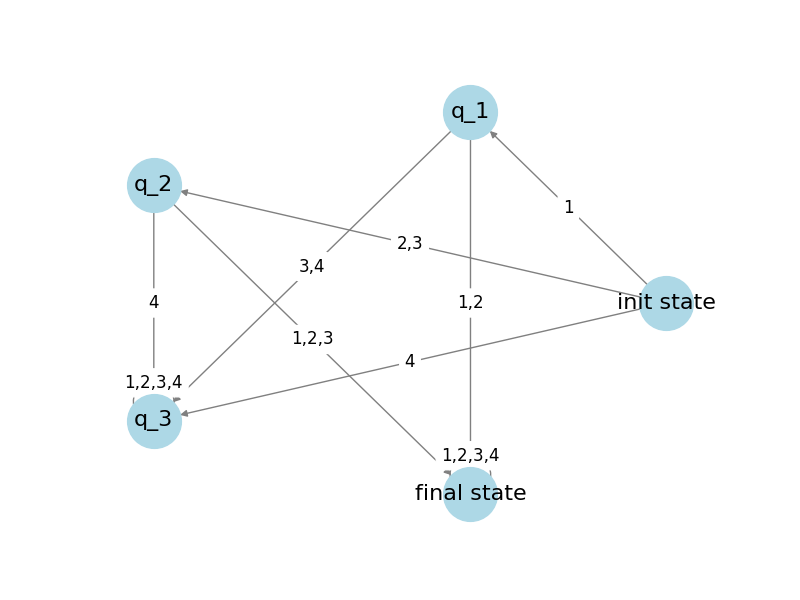
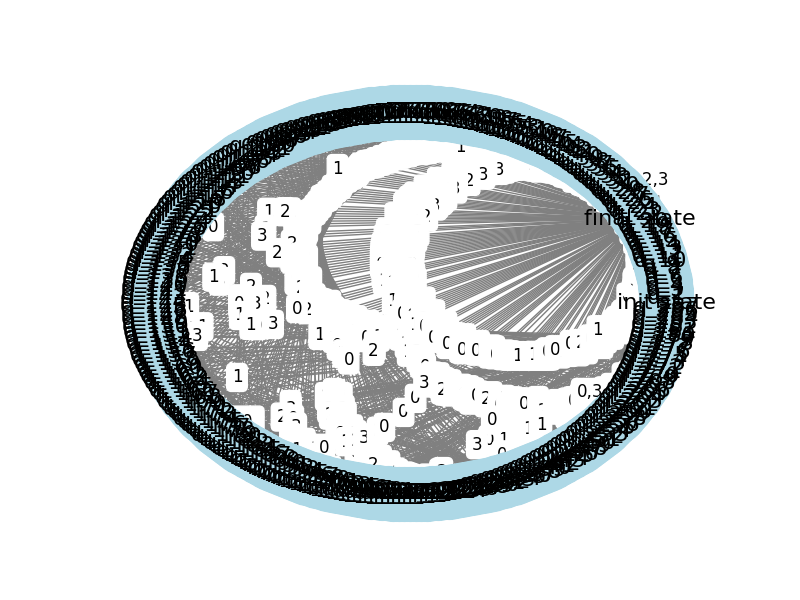
Visualizer

Changed region(s): [[0.125, 0.12, 0.875, 0.87]]

diff --git a/visualization/visualizer.py b/visualization/visualizer.py
@@ -60,8 +60,8 @@ def visualize(json_fa: str) -> None:
 
 
 if __name__ == "__main__":
-    visualize('{"states": ["q_0", "q_1", "q_2", "q_3", "q_4"], "initial_state": "q_0", "final_states": ["q_4"], '
-              '"alphabet": ["1", "2", "3", "4"], "q_0": {"1": "q_1", "2": "q_2", "3": "q_2", "4": "q_3"}, '
-              '"q_1": {"1": "q_4", "2": "q_4", "3": "q_3", "4": "q_3"}, "q_2": {"1": "q_4", "2": "q_4", "3": "q_4", '
-              '"4": "q_3"}, "q_3": {"1": "q_3", "2": "q_3", "3": "q_3", "4": "q_3"}, "q_4": {"1": "q_4", "2": "q_4", '
-              '"3": "q_4", "4": "q_4"}}')
+    file_path = r'..\data\module3Test\1.json'
+
+    with open(file_path, 'r') as file:
+        json_text = file.read()
+    visualize(str(json_text))
